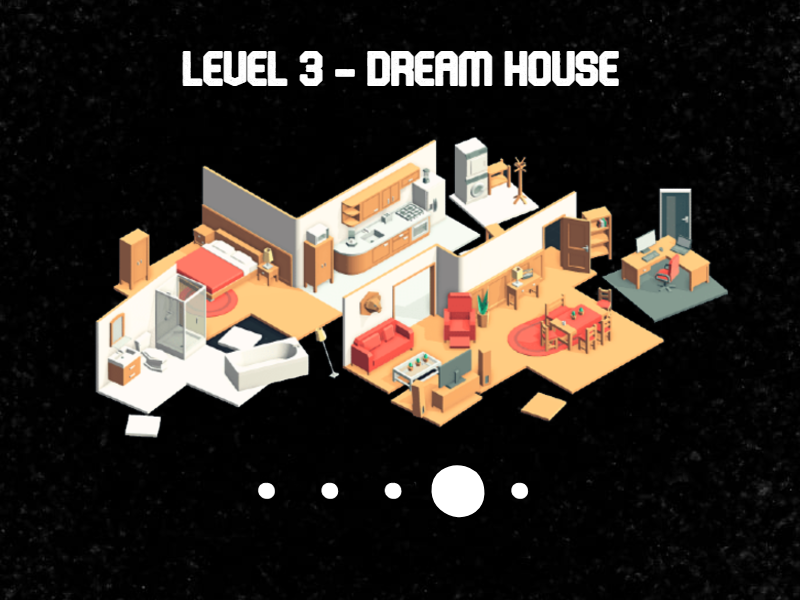
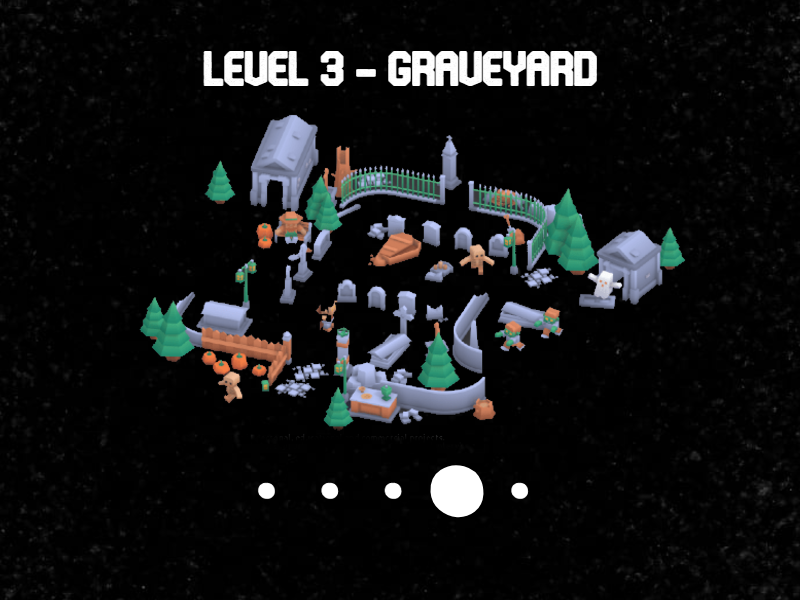
foto l3

Changed region(s): [[0.0938, 0.18, 0.9062, 0.75], [0.2188, 0.06, 0.7812, 0.15]]

diff --git a/src/game/stage.cpp b/src/game/stage.cpp
@@ -652,7 +652,7 @@ void L3Stage::render(Camera* camera) {
     }
 
     if (L3_completed) {
-        UI::addbackground(Vector2(Game::instance->window_width * 0.5, Game::instance->window_height * 0.5), Vector2(600, 400), "data/button/ANIMATIONL2.png");
+        UI::addbackground(Vector2(Game::instance->window_width * 0.5, Game::instance->window_height * 0.5), Vector2(600, 400), "data/button/ANIMATIONL3.png");
         std::stringstream timeText;
         timeText << std::fixed << std::setprecision(2) << final_time;
         drawText(480, 283, timeText.str(), Vector3(1, 1, 1), 4);
